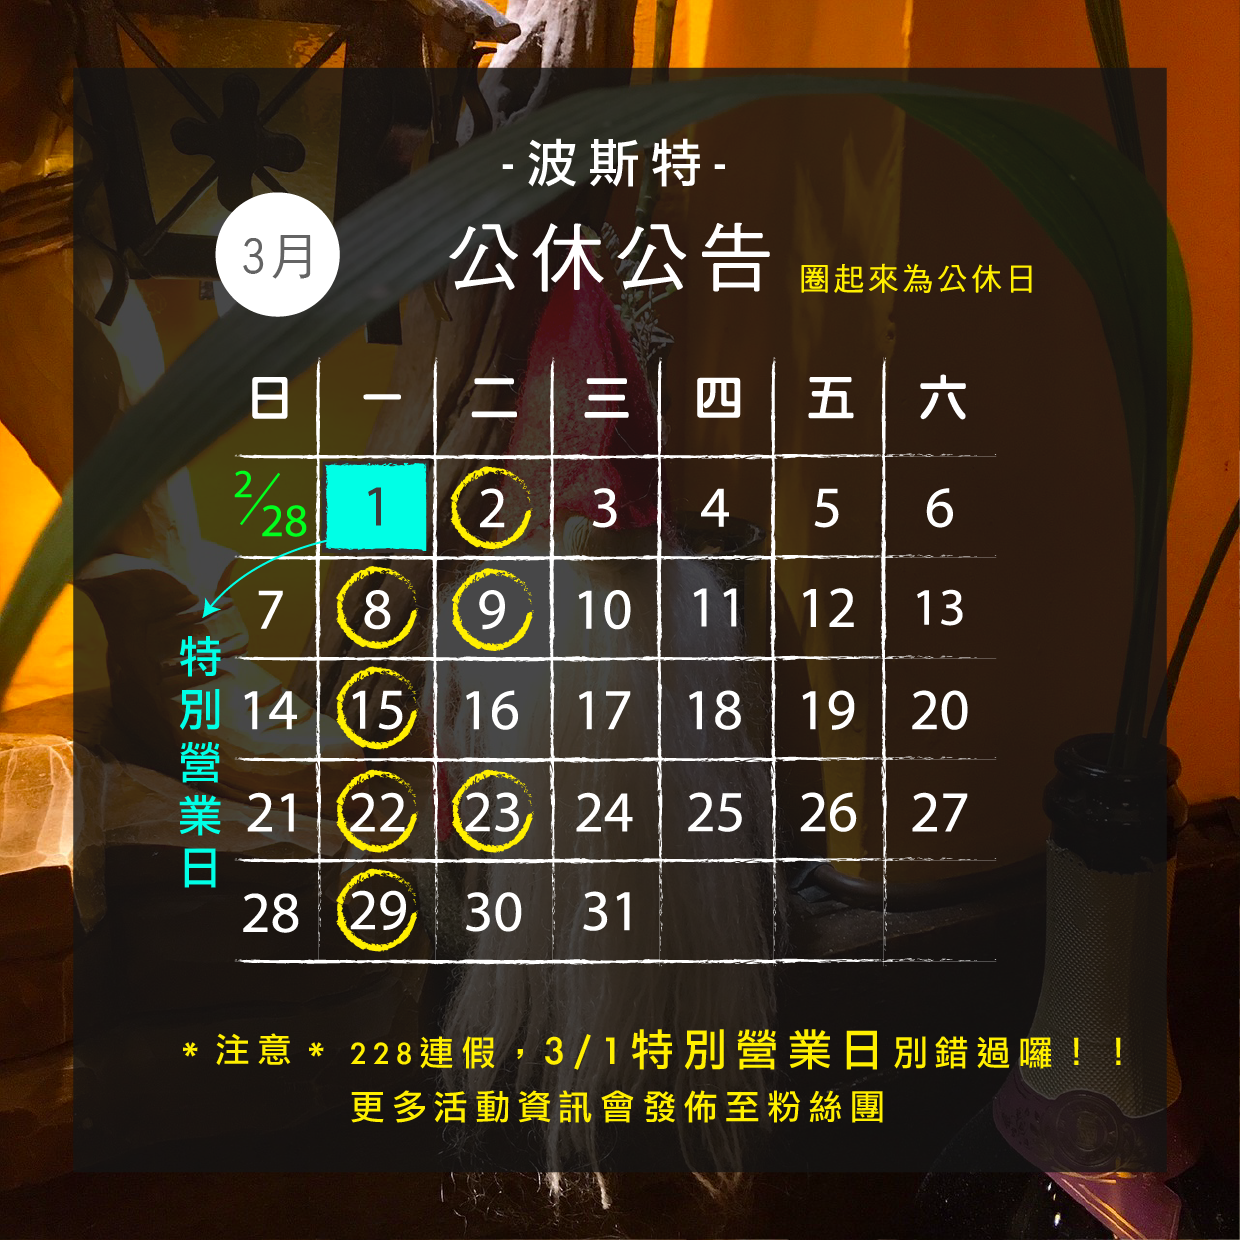
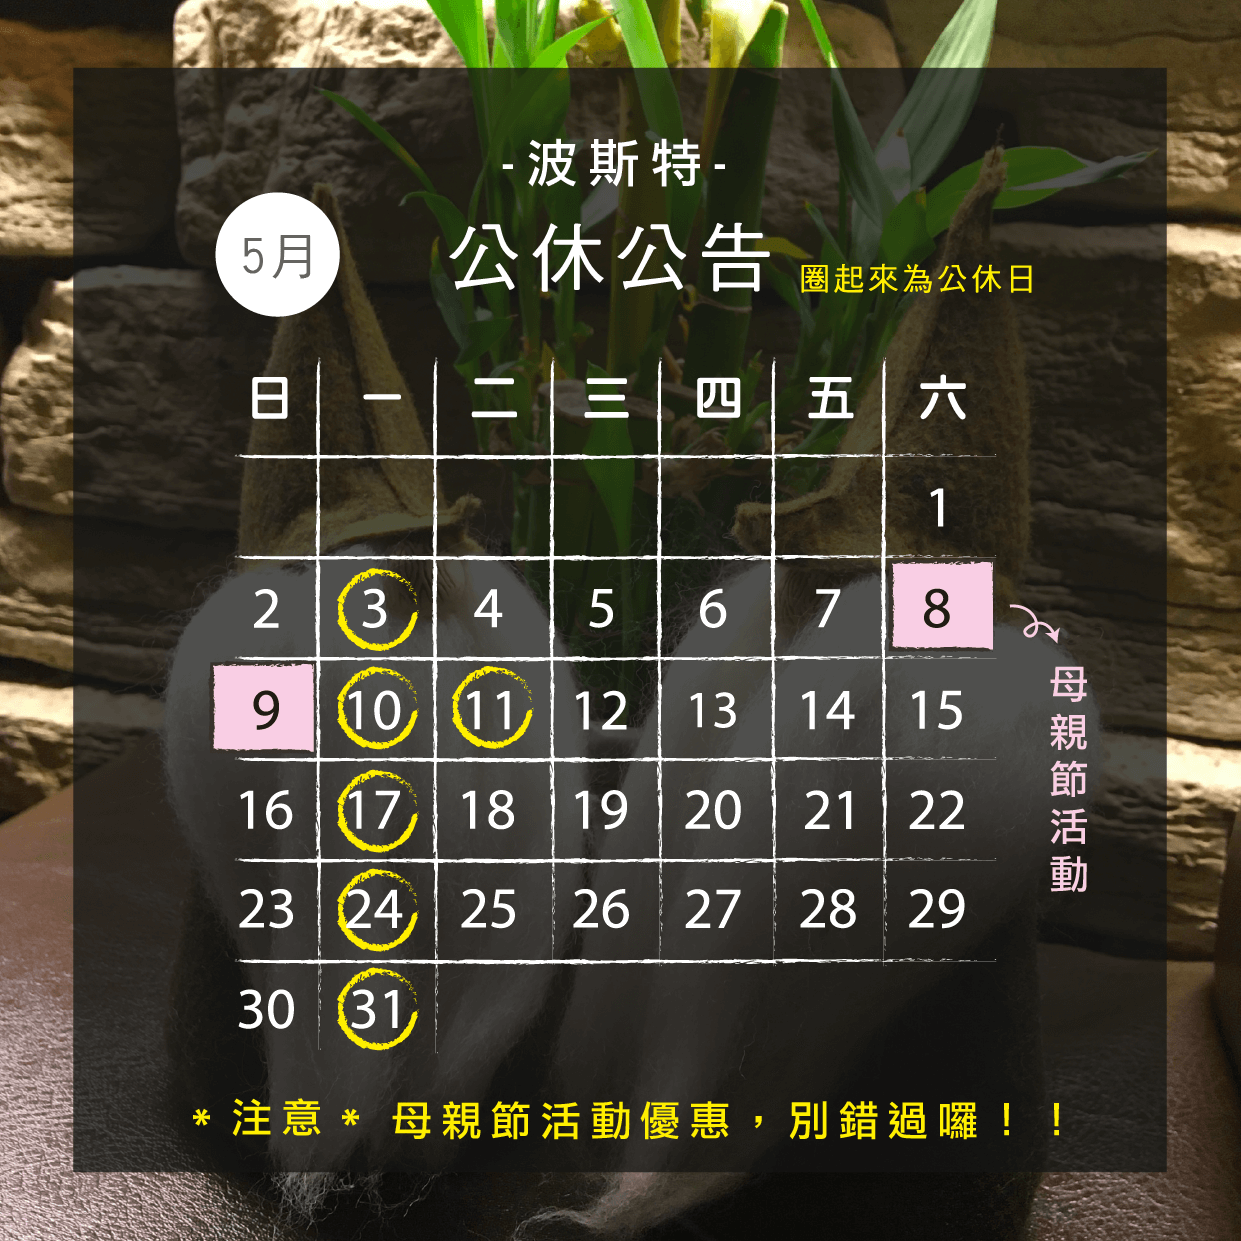
公休更改

diff --git a/index.html b/index.html
@@ -139,15 +139,14 @@
               <div class="card-body">
                       <h4 class="card-title text-primary">公休</h4>
                       <ul>
-                        <li><h6>4/2 ~ 4/5 清明連假</h6></li>
-                        <li><h6>4/5 (一) 特別營業日</h6></li>
+                        <li><h6>5/8 ~ 5/9 母親節活動</h6></li>
                       </ul>
                       <h6 class="card-subtitle mb-2 text-muted"></h6>
                       <br>
                       <ul class="list-unstyled multiple-items slider">
                           <li class="card-text d-flex align-items-center justify-items-center mx-2">
-                            <a data-fancybox="gallery" href="img/closed4.png" data-caption="公休">
-                                <img  src="img/closed4.png" width="100%"></a>
+                            <a data-fancybox="gallery" href="img/closed.png" data-caption="公休">
+                                <img  src="img/closed.png" width="100%"></a>
                         </li>
                       </ul>
               </div> 
